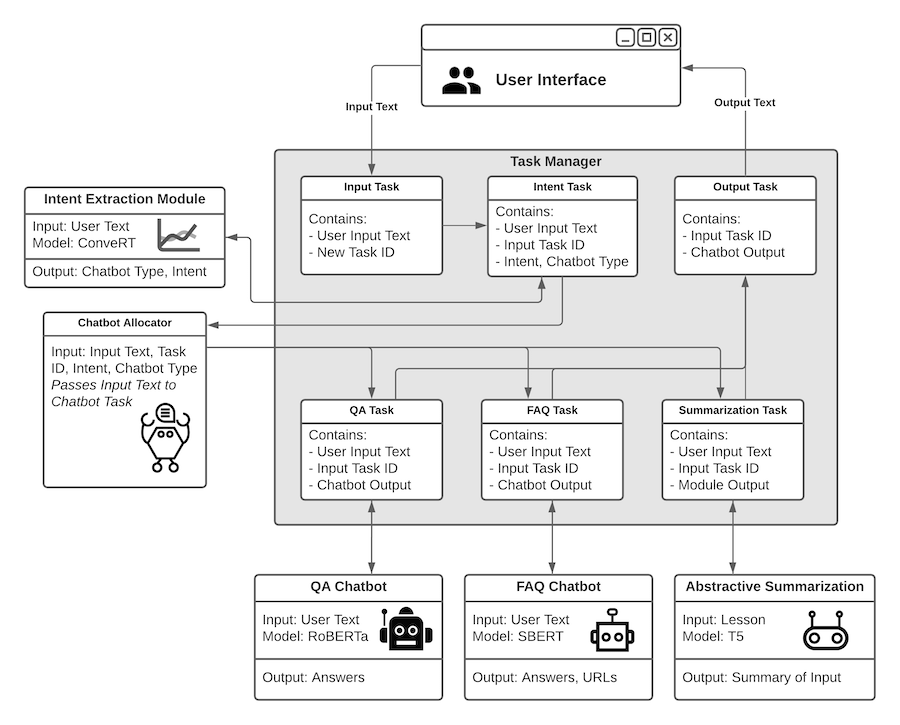
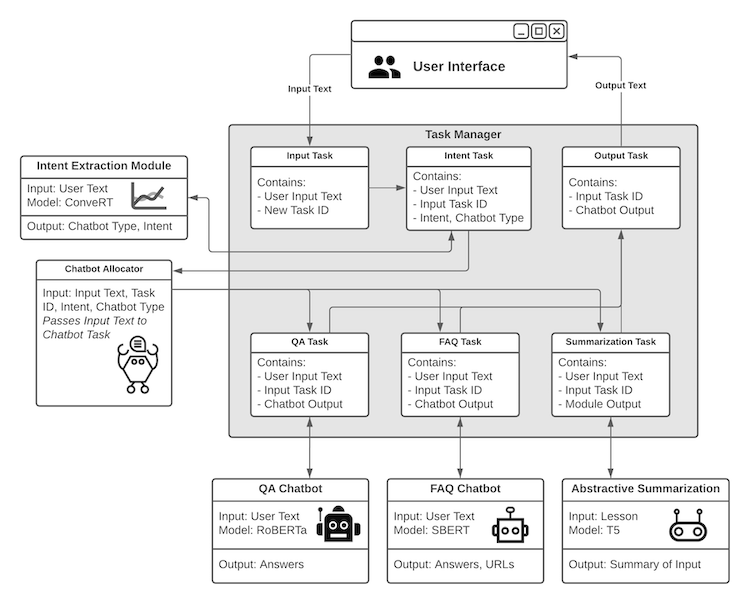
resized architecture image

diff --git a/README.md b/README.md
@@ -2,8 +2,6 @@
 
 An Eclectic and Malleable Multi-Chatbot Framework.
 
-![JuggleChat](https://github.com/aaronbriel/jugglechat/blob/master/architecture.png?raw=true)
-
 ## Installation
 Ubuntu:
 
